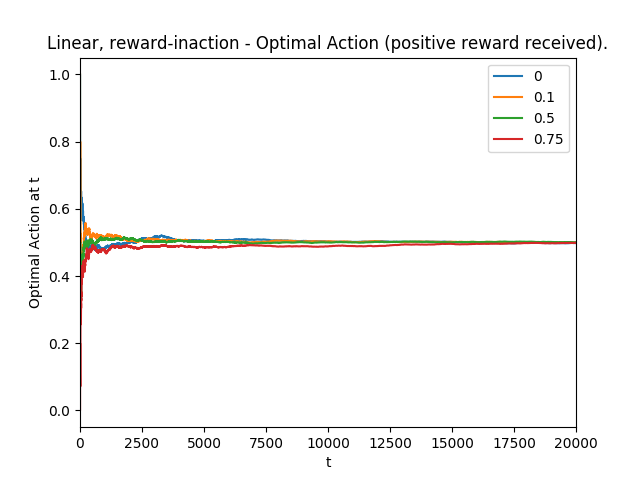
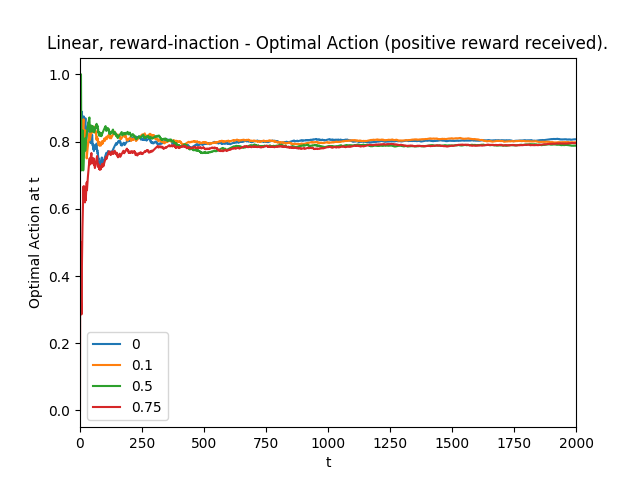
Stacking deckchairs

diff --git a/RLBook/nArmedBandit/Bandits.py b/RLBook/nArmedBandit/Bandits.py
@@ -35,7 +35,7 @@ class NArmBandit:
     """ A collection of N slot machines. Slot machine i has a mean of i and sigma of N
     """
 
-    def __init__(self, num, binary=False):
+    def __init__(self, num, binary=False, probability=0.4):
         """ Initialise a num-Armed Bandit
 
             :param num:         Number of Bandits to create
@@ -49,7 +49,7 @@ class NArmBandit:
         for bandit_n in range(num):
             if binary:
                 # Binary Bandit
-                self.bandits[bandit_n] = OneArmBinaryBandit()
+                self.bandits[bandit_n] = OneArmBinaryBandit(probability=probability)
             else:
                 # Gaussian Normal Bandit
                 self.bandits[bandit_n] = OneArmBandit(mu=bandit_n, sigma=num)
@@ -79,9 +79,17 @@ class NArmBandit:
 
 
 class OneArmBinaryBandit:
+    """ Binary One Arm Bandit
+    """
+    PROBABILITY = 0.4
 
-    def __init__(self):
-        pass
+    def __init__(self, probability=0.4):
+        """ TODO
+
+            :param probability:     TODO
+
+        """
+        self.PROBABILITY = probability
 
     def __str__(self):
         return "< One Arm Binary Bandit >"
@@ -90,4 +98,4 @@ class OneArmBinaryBandit:
         return "< One Arm Binary Bandit >"
 
     def draw(self):
-        return np.random.choice([0, 1], size=1)
+        return np.random.choice([0, 1], size=1, p=[self.PROBABILITY, 1 - self.PROBABILITY])

diff --git a/RLBook/nArmedBandit/ModellingEnvironment.py b/RLBook/nArmedBandit/ModellingEnvironment.py
@@ -38,7 +38,8 @@ class ModelEnvironment:
     POSITIVE_REWARDS = None
     IS_BINARY = False
 
-    def __init__(self, bandits, trials=None, policy=None, epsilons=None, temperatures=None, alpha=None):
+    def __init__(self, bandits, trials=None, policy=None, epsilons=None, temperatures=None, alpha=None,
+                 probability=0.4):
         """
 
             :param bandits:
@@ -62,7 +63,8 @@ class ModelEnvironment:
         # Initialise a multi-Armed Bandit
         self.IS_BINARY = True if self.POLICY_NAME in PolicyEnum.BINARY_POLICIES else False
         self.BANDIT = NArmBandit(num=bandits,
-                                 binary=self.IS_BINARY)
+                                 binary=self.IS_BINARY,
+                                 probability=probability)
 
     def __repr__(self):
         return "< Modelling Environment Class >"

diff --git a/RLBook/nArmedBandit/main.py b/RLBook/nArmedBandit/main.py
@@ -18,8 +18,8 @@ from RLBook.nArmedBandit.ModellingEnvironment import ModelEnvironment
 
 if __name__ == '__main__':
     # params:
-    bandits = 10
-    trials = 20000
+    bandits = 1
+    trials = 2000
 
     # Initialise a e-Greedy Environment
     # env1 = ModelEnvironment(trials=trials, bandits=bandits, policy=PolicyEnum.EGREEDY,
@@ -46,7 +46,7 @@ if __name__ == '__main__':
 
     # Initialise a Linear, reward-inaction Policy
     env4 = ModelEnvironment(trials=trials, bandits=bandits, policy=PolicyEnum.LINEAR_REWARD_INACTION,
-                            epsilons=[0, 0.1, 0.5, 0.75], alpha=0.1)
+                            epsilons=[0, 0.1, 0.5, 0.75], alpha=0.1, probability=0.2)
     env4.run()
     env4.print_results()
     env4.generate_charts()

diff --git a/RLBook/nArmedBandit/LinearRewardInaction.py b/RLBook/nArmedBandit/LinearRewardInaction.py
@@ -139,7 +139,7 @@ class LinearInaction:
         """
         if reward > 0:
             current = self.ACTION_REWARDS[action, index]
-            self.ACTION_REWARDS[action, index] += current + self.ALPHA * (1 - current)
+            self.ACTION_REWARDS[action, index] = current + self.ALPHA * (1 - current)
 
     def update_rewards(self, rewards):
         """ Update all the Temperature Reward values

diff --git a/RLBook/nArmedBandit/LinearRewardPenalty.py b/RLBook/nArmedBandit/LinearRewardPenalty.py
@@ -140,7 +140,7 @@ class LinearPenalty:
 
         """
         current = self.ACTION_REWARDS[action, index]
-        self.ACTION_REWARDS[action, index] += current + self.ALPHA * (1 - current)
+        self.ACTION_REWARDS[action, index] = current + self.ALPHA * (1 - current)
 
     def update_rewards(self, rewards):
         """ Update all the Temperature Reward values
